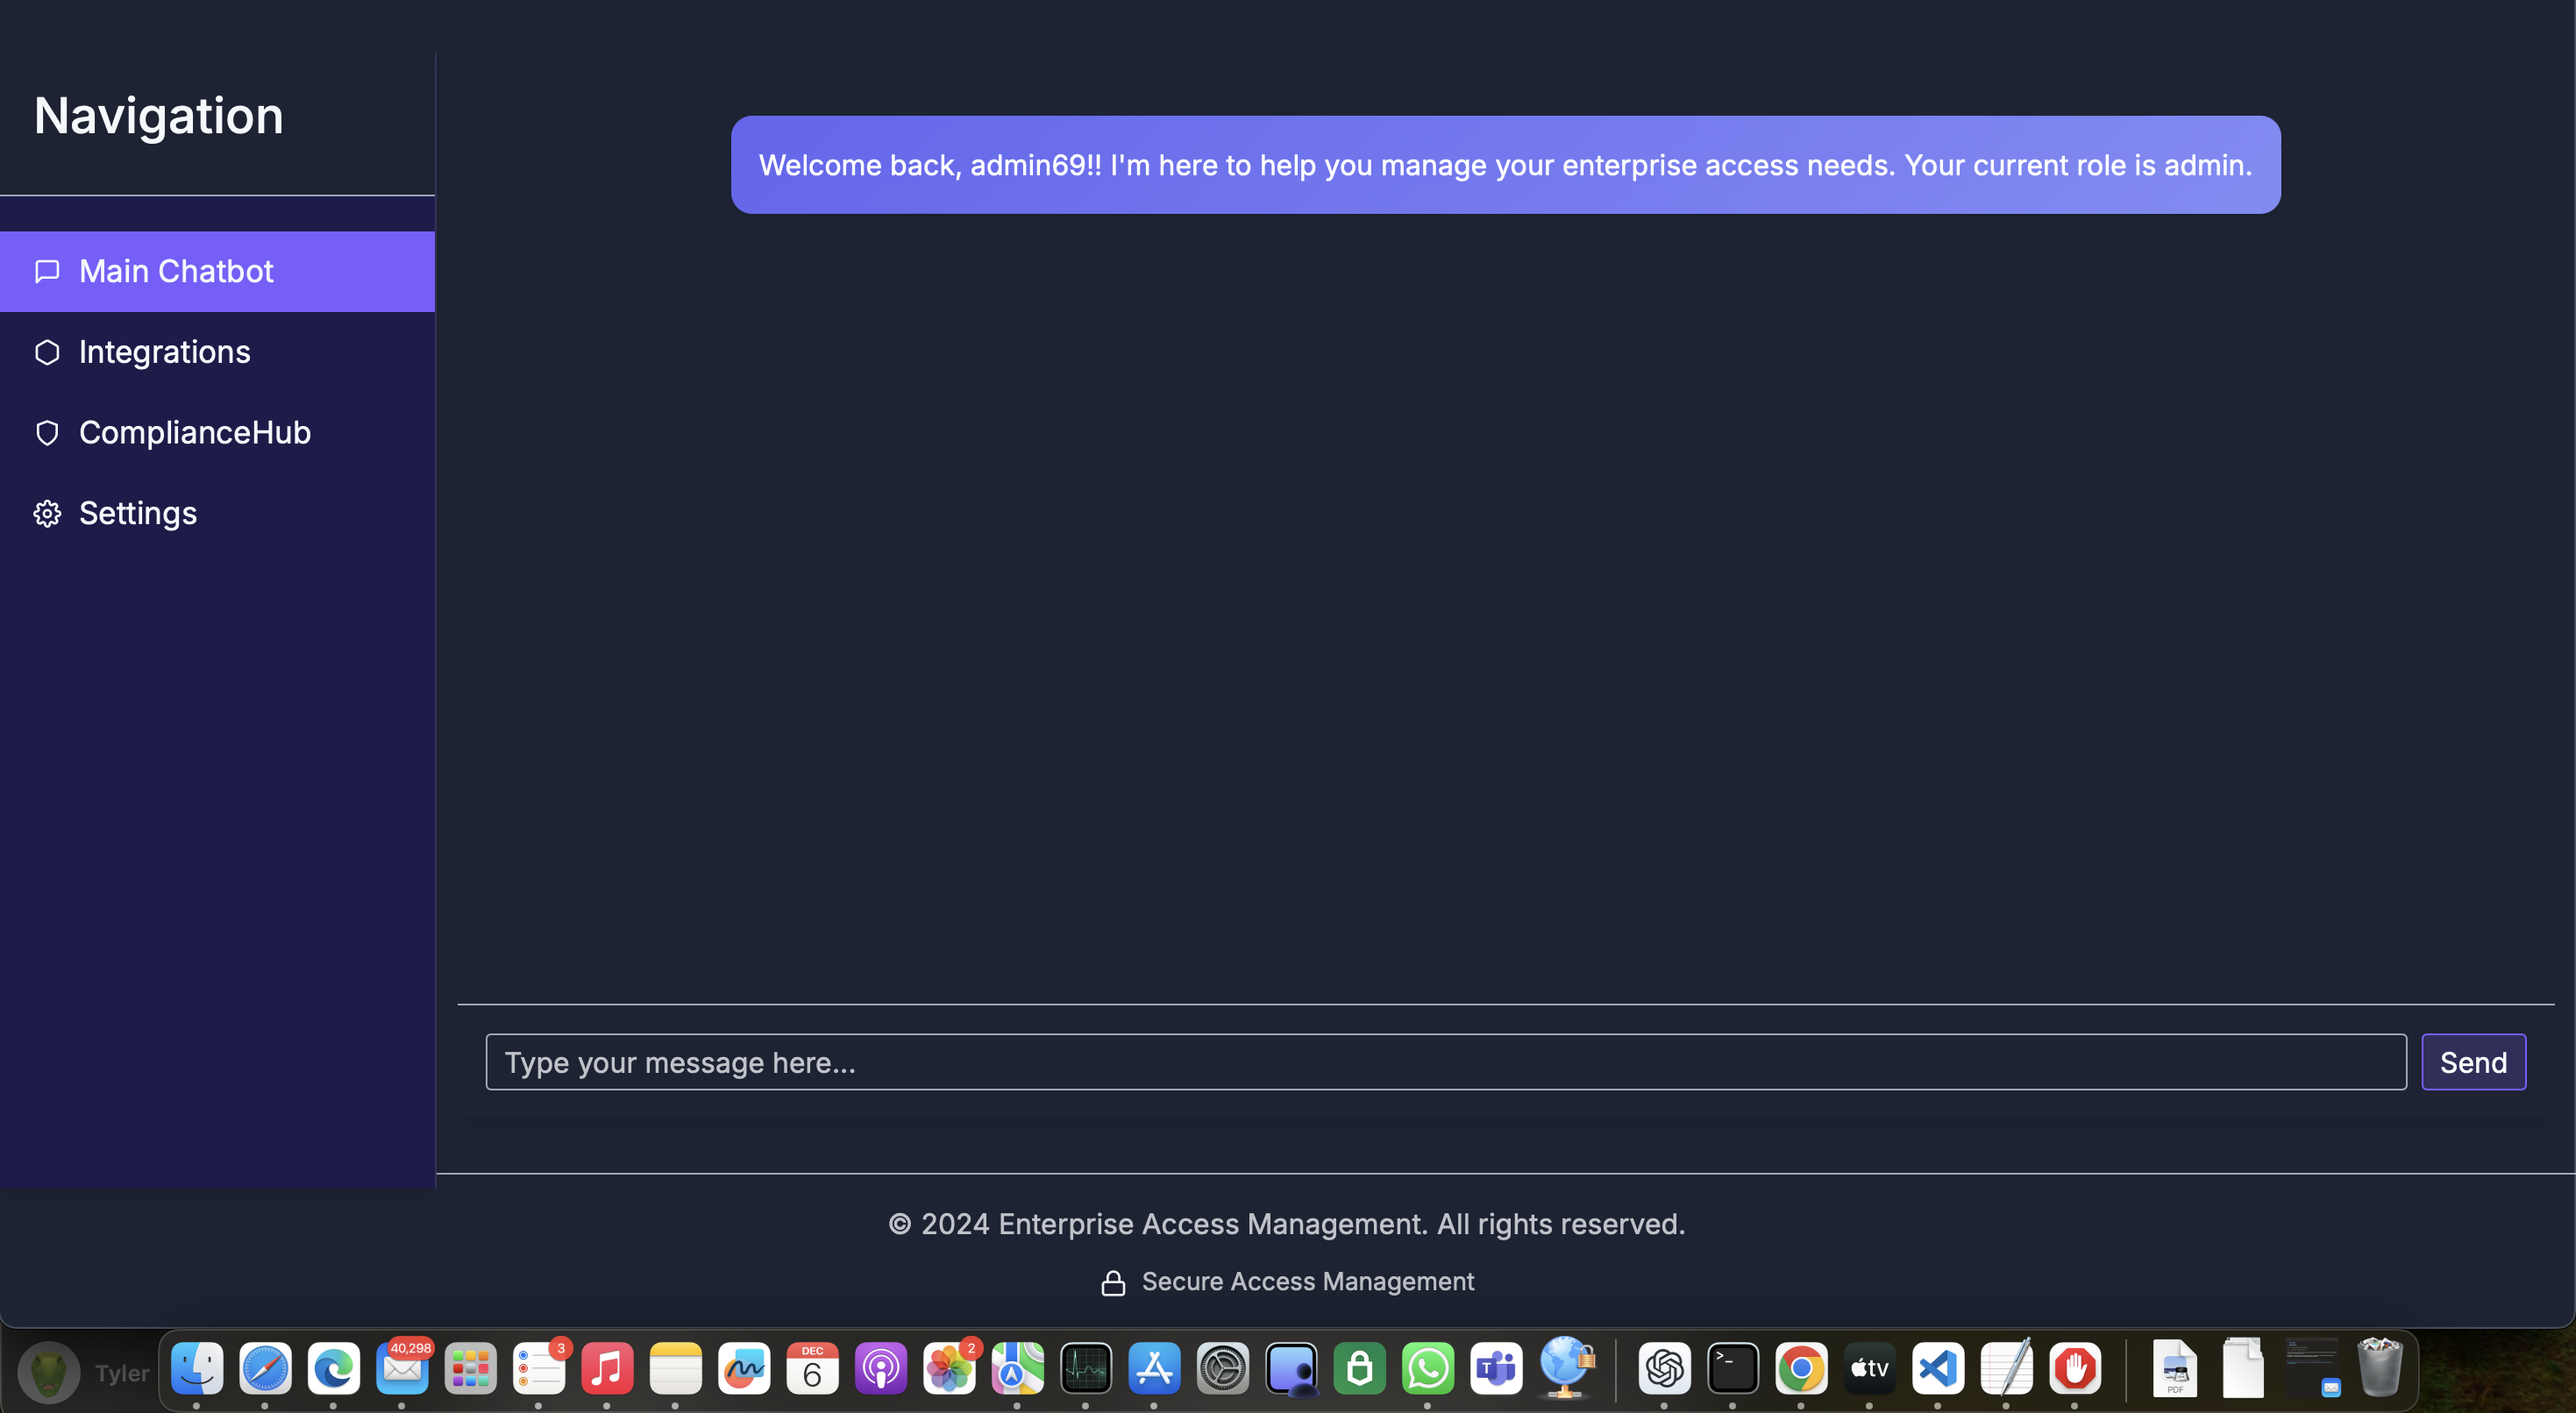
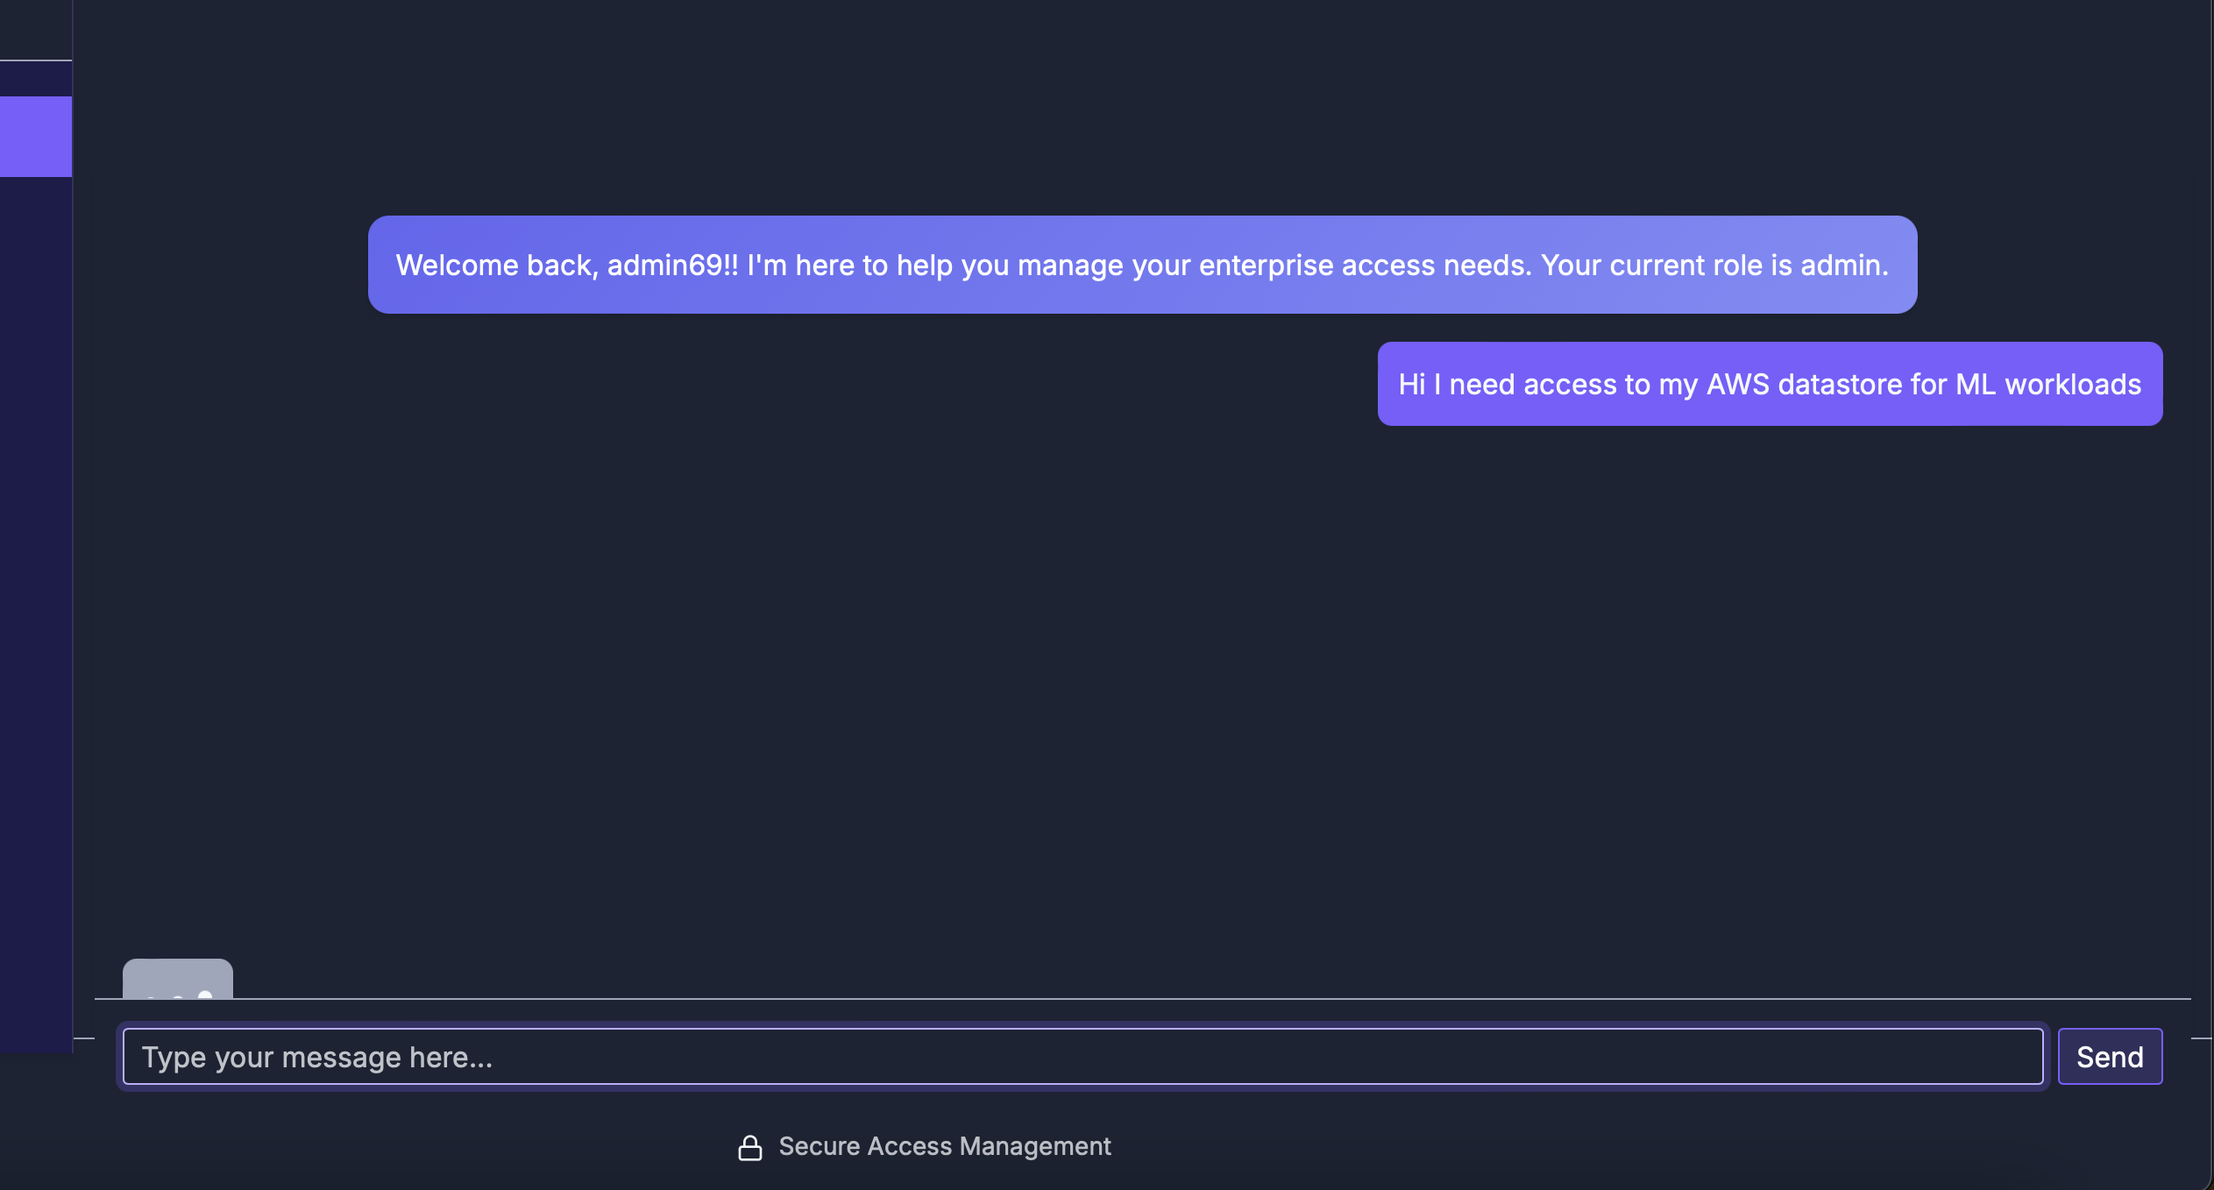
Agent query: Is the chat input now visible and properly positioned at the bottom of the chat container?

Changed region(s): [[0.0, 0.0, 1.0, 1.0], [0.1853, 0.7423, 0.3397, 0.7732]]

diff --git a/static/css/custom.css b/static/css/custom.css
@@ -1,5 +1,5 @@
 .chat-container {
-    height: calc(100vh - 240px);  /* Further adjusted to account for navbar and footer */
+    height: calc(100vh - 240px);
     display: flex;
     flex-direction: column;
     background: var(--bs-dark);
@@ -8,35 +8,27 @@
     margin: 1rem auto;
     max-width: 1200px;
     box-shadow: 0 4px 6px -1px rgba(0, 0, 0, 0.1);
-    position: relative;
 }
 
 .chat-messages {
-    flex: 1 1 auto;
+    flex: 1;
     overflow-y: auto;
     padding: 1rem;
-    padding-bottom: 2rem;  /* Added padding to prevent overlap with input */
     display: flex;
     flex-direction: column;
 }
 
 #messagesContainer {
-    flex-grow: 1;
+    flex: 1;
     overflow-y: auto;
     display: flex;
     flex-direction: column;
-    margin-bottom: 1rem;  /* Added margin to ensure space for typing indicator */
 }
 
 .chat-input-container {
     padding: 1rem;
     background: var(--bs-dark);
     border-top: 1px solid var(--bs-secondary);
-    position: absolute;
-    bottom: 0;
-    left: 0;
-    right: 0;
-    z-index: 100;
 }
 
 .message {

diff --git a/templates/chat.html b/templates/chat.html
@@ -12,11 +12,11 @@
                 {% endif %}
             </div>
         </div>
-        <div class="typing-indicator" id="typingIndicator">
-            <span></span>
-            <span></span>
-            <span></span>
-        </div>
+    </div>
+    <div class="typing-indicator" id="typingIndicator">
+        <span></span>
+        <span></span>
+        <span></span>
     </div>
     <div class="chat-input-container">
         <form id="chatForm" class="d-flex">
